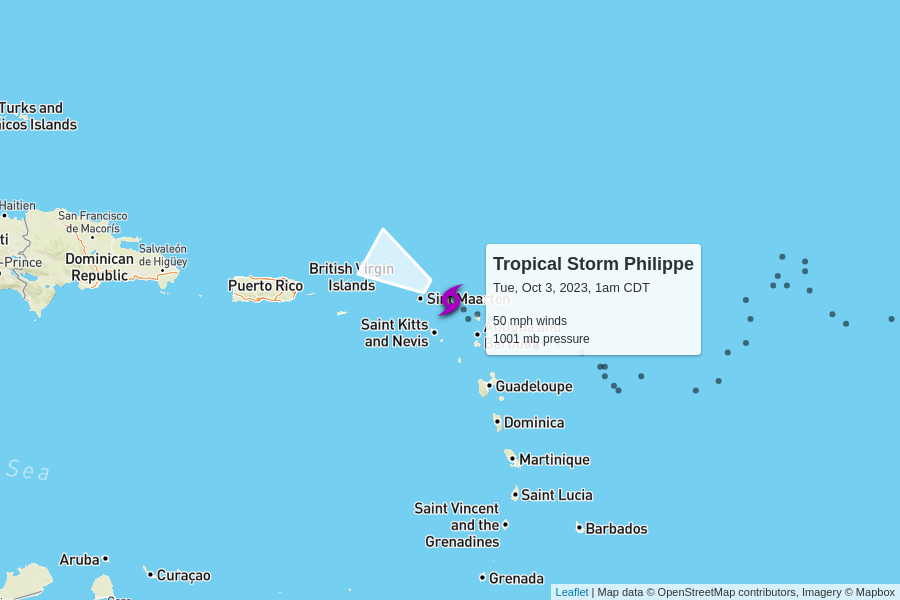
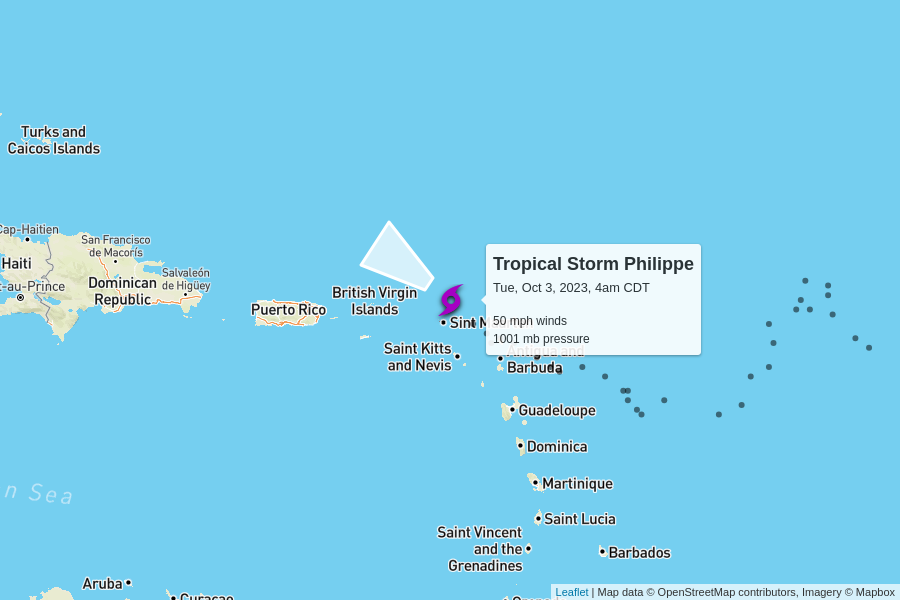
automatic update

diff --git a/docs/index.html b/docs/index.html
@@ -102,7 +102,7 @@
         <td colspan="6" class="storm category-0" >
           <h2>
             Tropical Storm Philippe
-            <p class="updated">last updated <span data-time>2023-10-03T06:00:00.000Z</span></p>
+            <p class="updated">last updated <span data-time>2023-10-03T09:00:00.000Z</span></p>
           </h2>
         </td>
       </tr>
@@ -120,9 +120,9 @@
         <td>50 mph<br>0 mph since last update</td>
         <td>1001 mb<br>0 mb since last update</td>
         <td>
-          7 mph to the west-northwest
+          8 mph to the northwest
           <br/>
-          <span style="display: inline-block; font-size: 1.5em; transform: rotate(300deg);">↑</span>
+          <span style="display: inline-block; font-size: 1.5em; transform: rotate(305deg);">↑</span>
         </td>
         <td><a href="https://raw.githubusercontent.com/mgwalker/atlantic-hurricanes/main/data/csv/AL172023.csv">AL172023.csv</a></td>
         <td><a href="https://www.nhc.noaa.gov/archive/2023/PHILIPPE.shtml?">NHC advisories</a></td>
